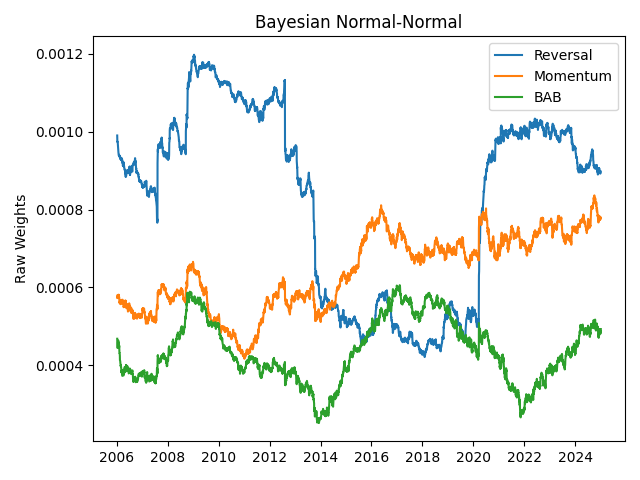
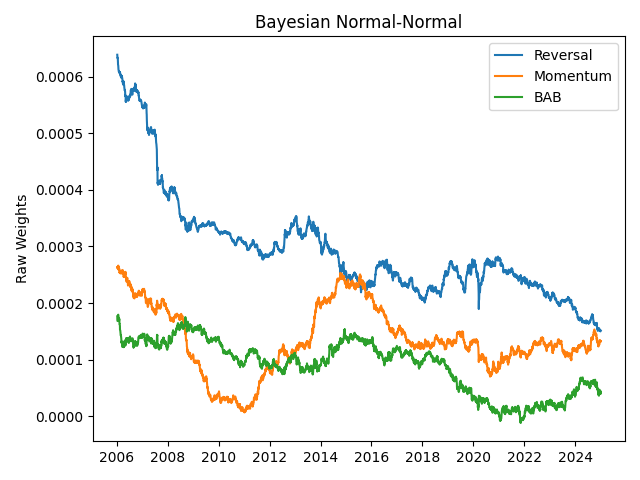
Changed priors to be sharpes, and then pass down mu_0. Sigma_0 is built from empirical daily variance.

diff --git a/experiments/bayesian_nn.py b/experiments/bayesian_nn.py
@@ -4,17 +4,23 @@ from utils import save_weights_lineplot, save_weights_stackplot, save_values_lin
 from pathlib import Path
 import datetime as dt
 
-signal_names = ['reversal', 'momentum', 'bab']
-start = dt.date(2001, 1, 1)
-end = dt.date(2024, 12, 31)
-plot_start = dt.date(2006, 1, 9)
+DAILY_VAR = 1e-5
 WINDOW = 252 * 5
 K = 3
 
-# Prior hyperparameters
-mu_0 = np.ones(K) / K
-n_0 = 252 * 5 # Pseudo observations
-Sigma_0 = np.eye(K) * (1 / 100) # Diagonal 1% variance
+# Signals + Priors
+signal_names = ['reversal', 'momentum', 'bab']
+prior_sharpes = [.5, .5, .5] # CHANGE THIS LINE (Annual)
+n_0 = 252 * 5 # CHANGE THIS LINE (Pseudo observations). Note that this is relative to the value for WINDOW
+
+# Dates
+start = dt.date(2001, 1, 1)
+end = dt.date(2024, 12, 31)
+plot_start = dt.date(2006, 1, 9)
+
+# Prior hyperparameters (do not change these)
+mu_0 = np.array(prior_sharpes) * np.sqrt(DAILY_VAR) / np.sqrt(252) # Daily returns
+Sigma_0 = np.eye(K) * DAILY_VAR  # Diagonal daily variance
 
 # Load returns (mve)
 returns_list = []
